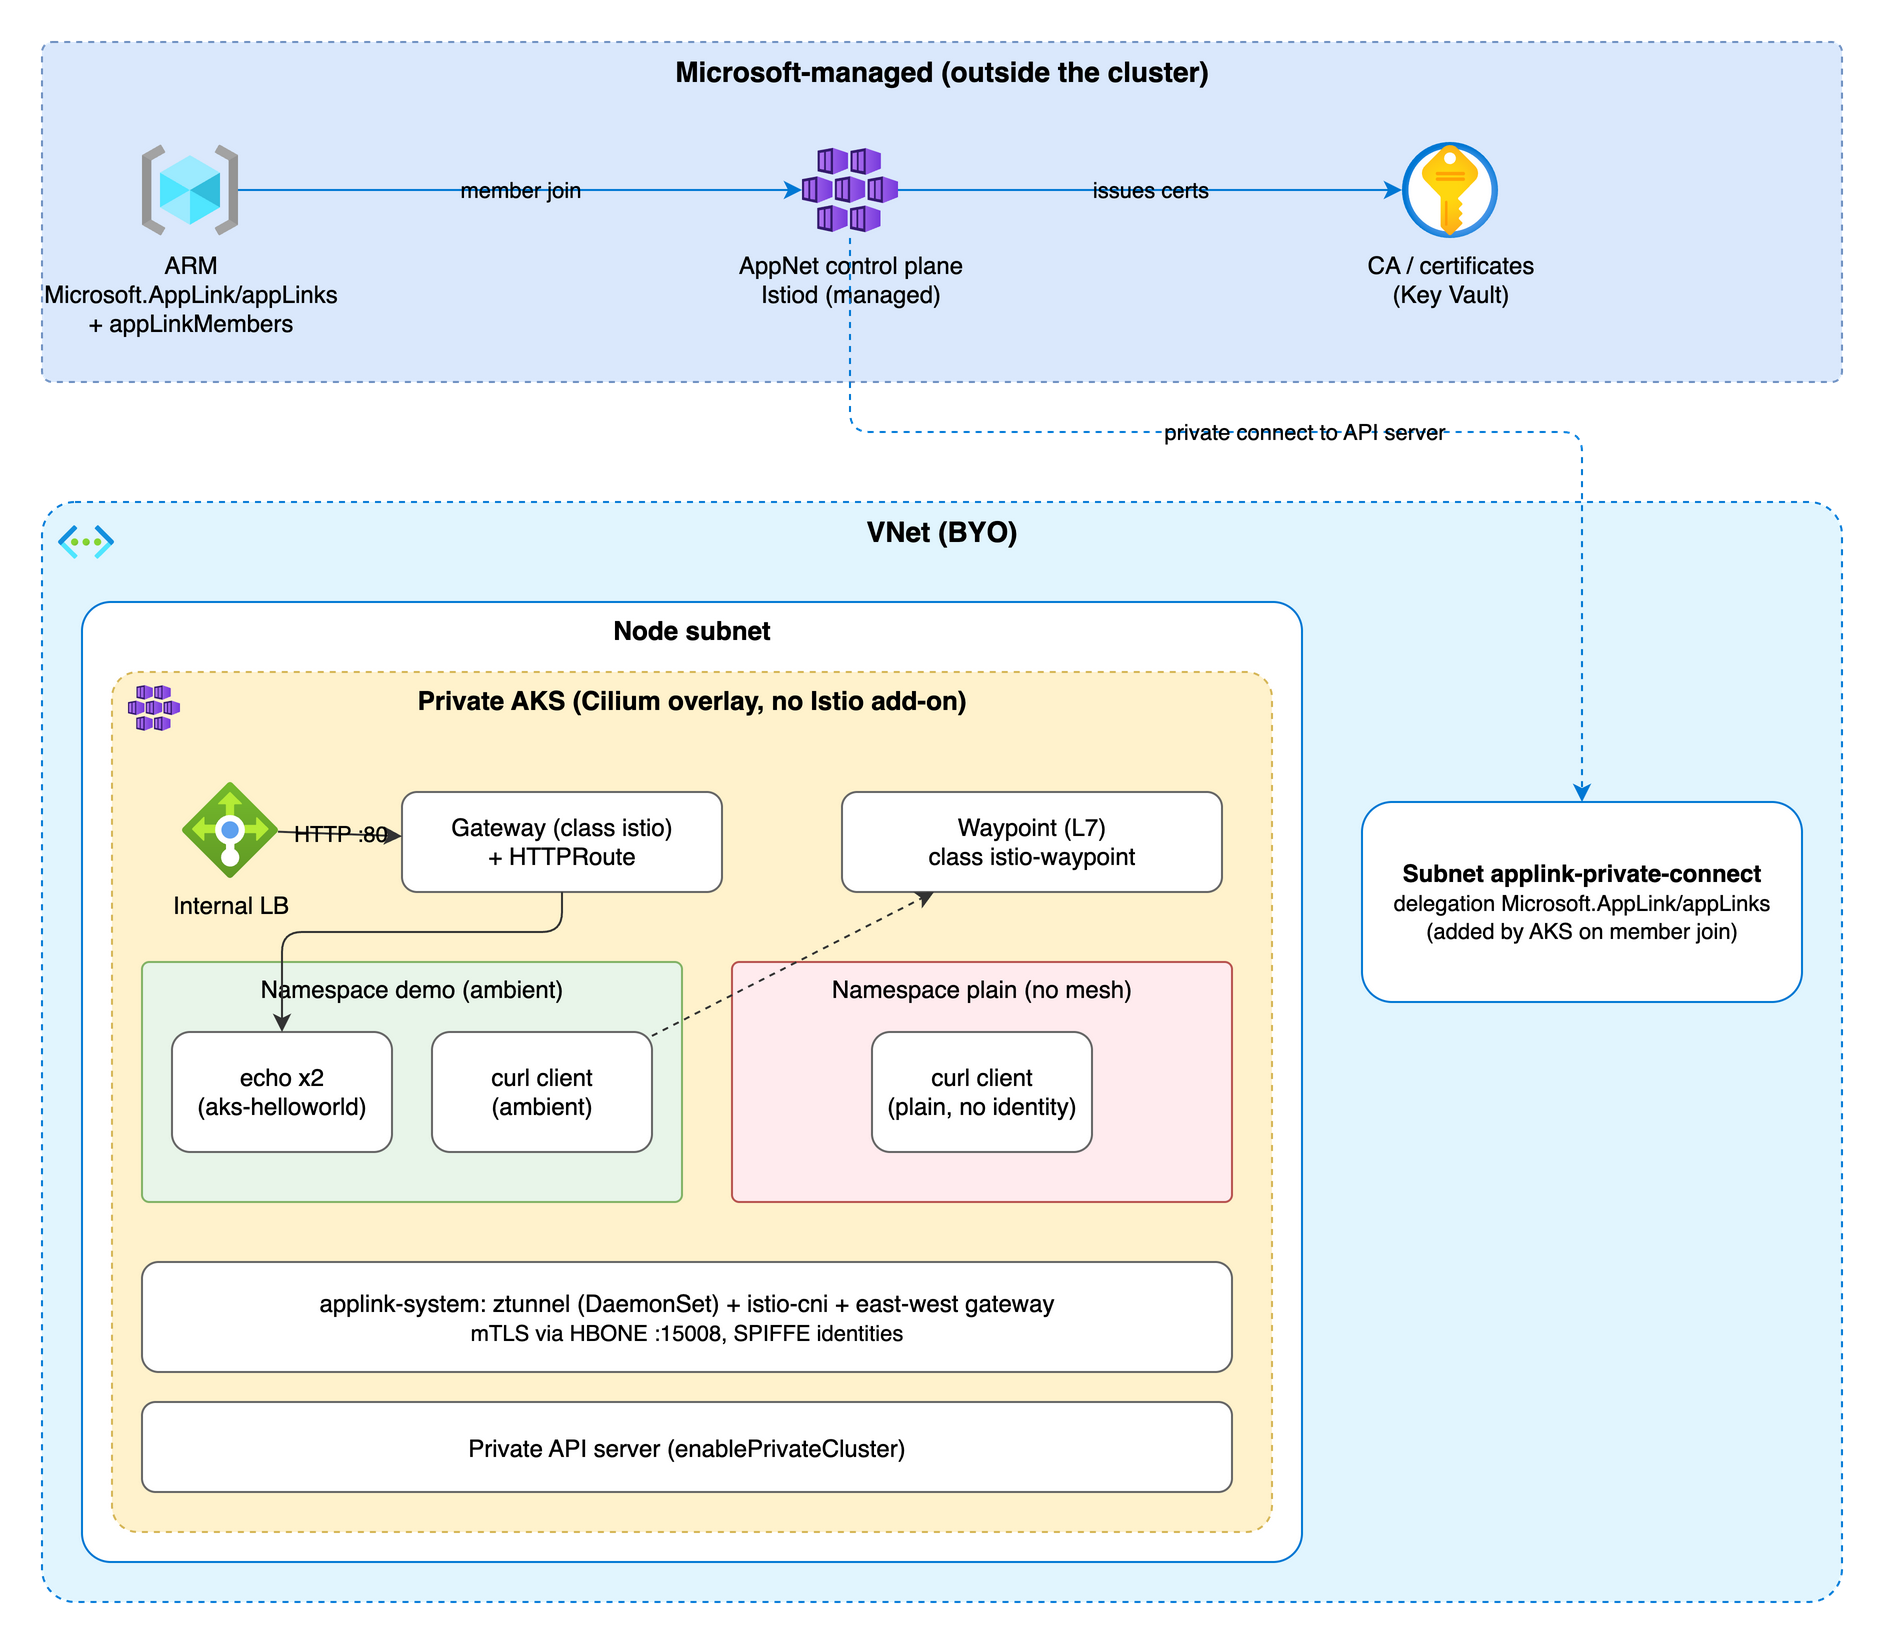
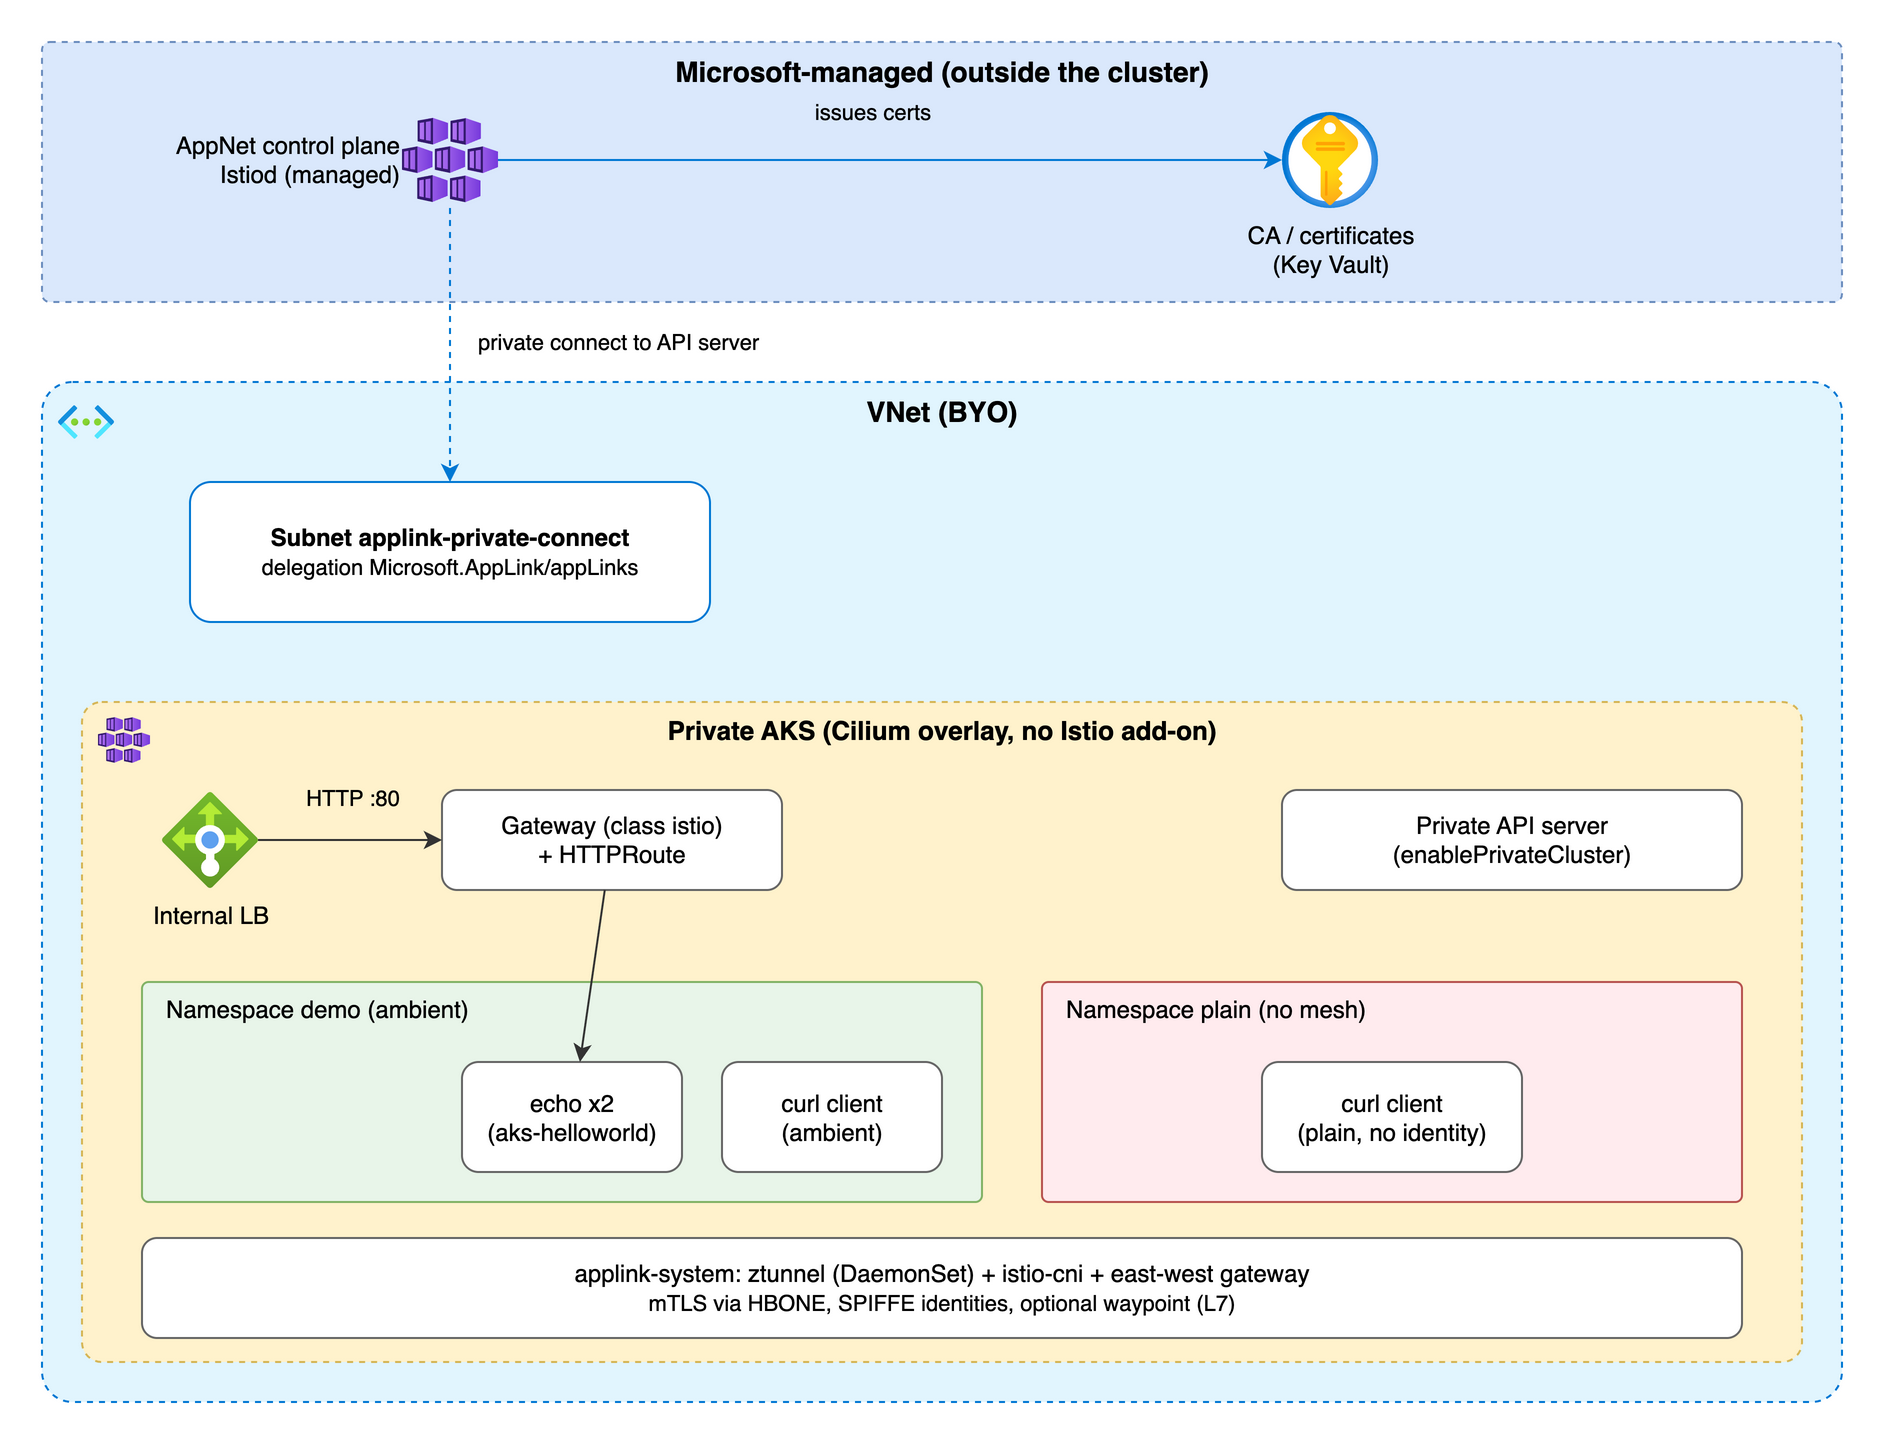
docs(appnet): simplify diagram, use azapi subnet and link azurerm issues

diff --git a/content/posts/appnet-private-cluster.md b/content/posts/appnet-private-cluster.md
@@ -76,7 +76,7 @@ resource "azapi_resource" "aks" {
 }
 ```
 
-The AppNet resource and the member are ARM resources as well (`Microsoft.AppLink/appLinks` and `appLinks/appLinkMembers`, API `2026-08-01-preview`):
+The AppNet resource and the member are ARM resources as well (`Microsoft.AppLink/appLinks` and `appLinks/appLinkMembers`, API `2026-08-01-preview`). There are no `azurerm` resources for them yet, so I opened a [feature request](https://github.com/hashicorp/terraform-provider-azurerm/issues/33878):
 
 ```terraform
 resource "azapi_resource" "appnet" {
@@ -122,17 +122,22 @@ Creating the member took about 10 minutes. The private-connect path worked on my
 
 ### The subnet delegation
 
-The private-connect subnet must be delegated to `Microsoft.AppLink/appLinks`. The code does not set it: AKS **adds it itself** during the member join. The Terraform resource then needs `ignore_changes`, otherwise it tries to remove the delegation again:
+The private-connect subnet must be delegated to `Microsoft.AppLink/appLinks`. `azurerm_subnet` rejects that delegation name at validation time (I opened [an issue](https://github.com/hashicorp/terraform-provider-azurerm/issues/33877)), so I create the subnet with AzAPI and set the delegation explicitly:
 
 ```terraform
-resource "azurerm_subnet" "applink" {
-  name                 = "applink-private-connect"
-  resource_group_name  = azurerm_resource_group.aks.name
-  virtual_network_name = azurerm_virtual_network.this.name
-  address_prefixes     = ["10.20.1.0/27"]
+resource "azapi_resource" "applink_subnet" {
+  type      = "Microsoft.Network/virtualNetworks/subnets@2024-05-01"
+  name      = "applink-private-connect"
+  parent_id = azurerm_virtual_network.this.id
 
-  lifecycle {
-    ignore_changes = [delegation]
+  body = {
+    properties = {
+      addressPrefix = "10.20.1.0/27"
+      delegations = [{
+        name       = "applink"
+        properties = { serviceName = "Microsoft.AppLink/appLinks" }
+      }]
+    }
   }
 }
 ```
